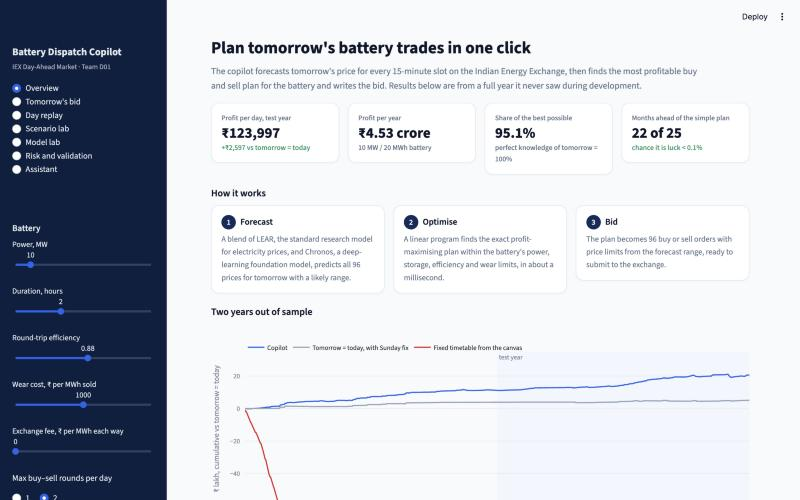
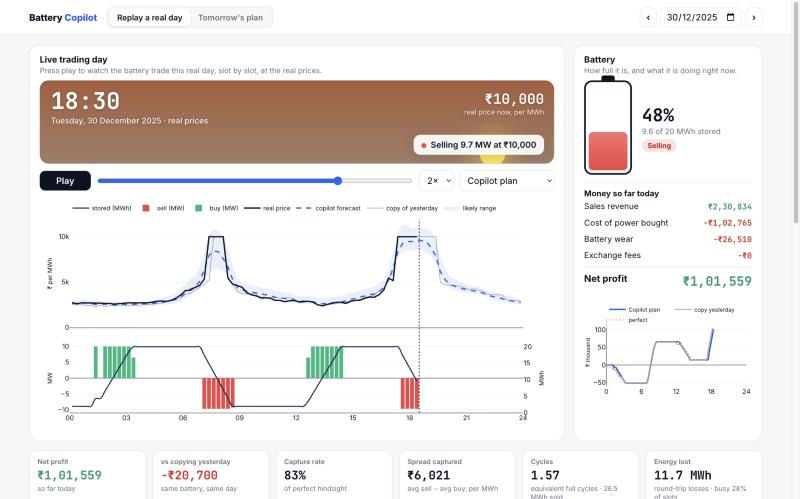
M4 PDF: describe and show the live trading-desk simulator

diff --git a/docs/m4_build/build_m4.py b/docs/m4_build/build_m4.py
@@ -100,11 +100,12 @@ s.append(Paragraph(
 
 s.append(Paragraph("2. The working solution", H))
 s.append(KeepTogether([fig("m4_app.jpg", 168), Paragraph(
-    "Figure 1. The Battery Dispatch Copilot (run: <i>streamlit run app/app.py</i>). Seven pages: <b>Overview</b>; <b>Tomorrow's bid</b> (forecast with "
-    "likely range, the plan, and exchange orders with price limits, downloadable); <b>Day replay</b> (any of 730 past days, any forecaster); <b>Scenario lab</b> "
-    "(compare three battery designs over the test year); <b>Model lab</b> (price error vs money for each forecaster); <b>Risk and validation</b>; and an "
-    "<b>Assistant</b> that answers questions in plain English using a local AI model (Qwen3 on Ollama, so no data leaves the laptop). Sliders for battery size, "
-    "efficiency, wear, fees and rounds re-plan every page instantly.", CAP)]))
+    "Figure 1. The working solution: a live trading-desk simulator (web/index.html; run <i>python3 -m http.server 8600 --directory web</i>). "
+    "It plays any of 730 real days slot by slot, with a day-night clock, the live price, what the battery is doing, a battery gauge, a running money "
+    "ledger (revenue, charging cost, wear, fees, net) and live KPIs (capture rate, spread captured, cycles, energy lost). Users can switch strategy "
+    "(copilot, copy yesterday, fixed timetable, perfect hindsight), change the battery and see it re-plan instantly, click any day on a two-year "
+    "calendar, and download tomorrow's exchange orders with safety price limits. A Streamlit version (app/app.py) adds an AI assistant that "
+    "answers questions on a local model (Qwen3 on Ollama).", CAP)]))
 
 s.append(Paragraph("3. Performance", H))
 rows = [["Plan (10 MW / 20 MWh, ₹1,000 wear)", "Validation year, ₹/day", "Test year, ₹/day", "Share of best (test)", "Per year (test)"]]
